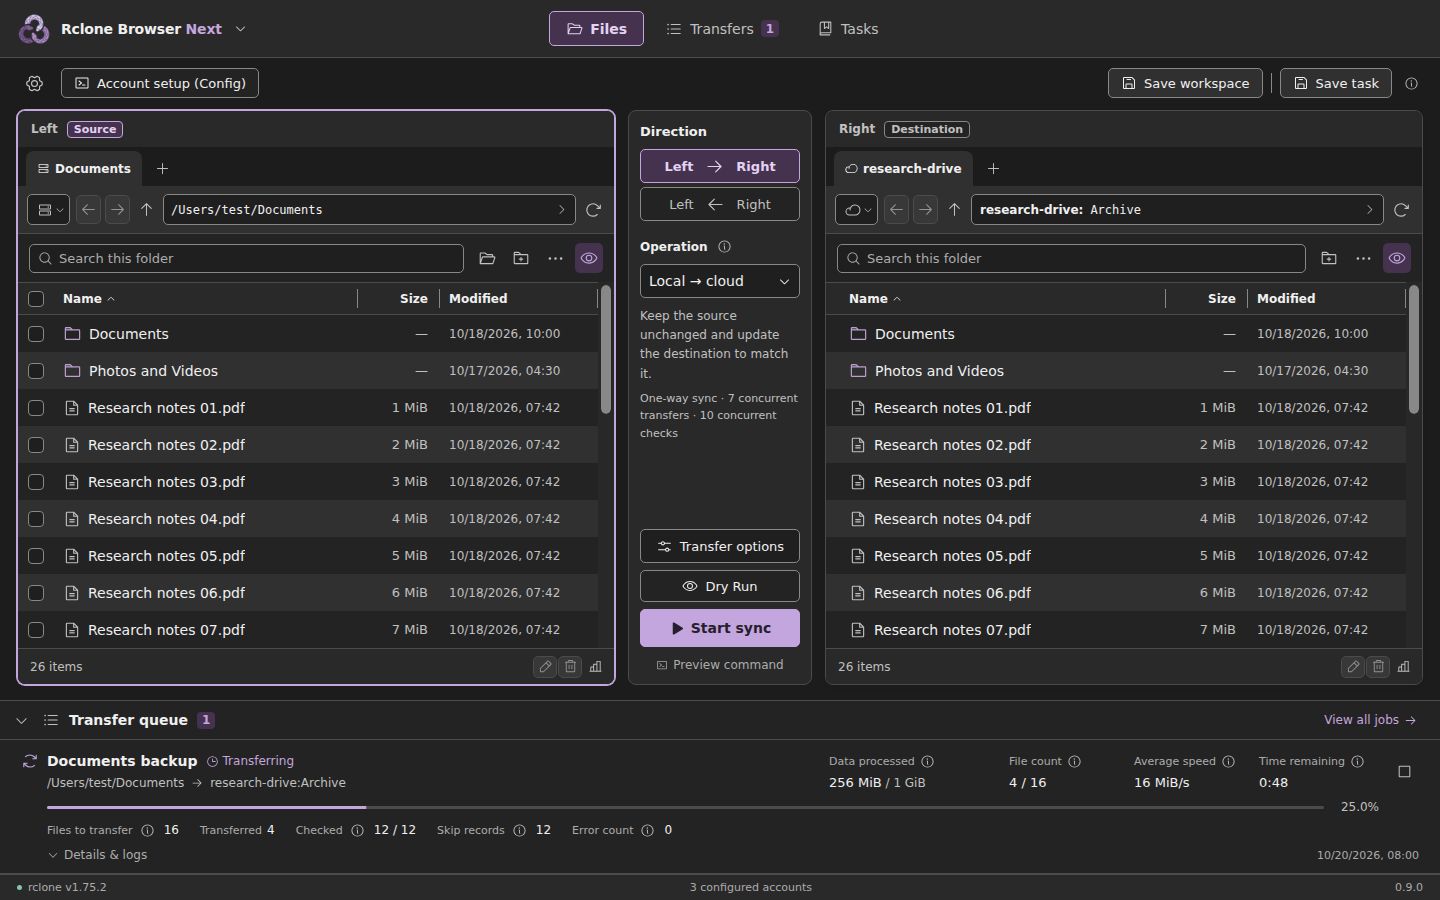
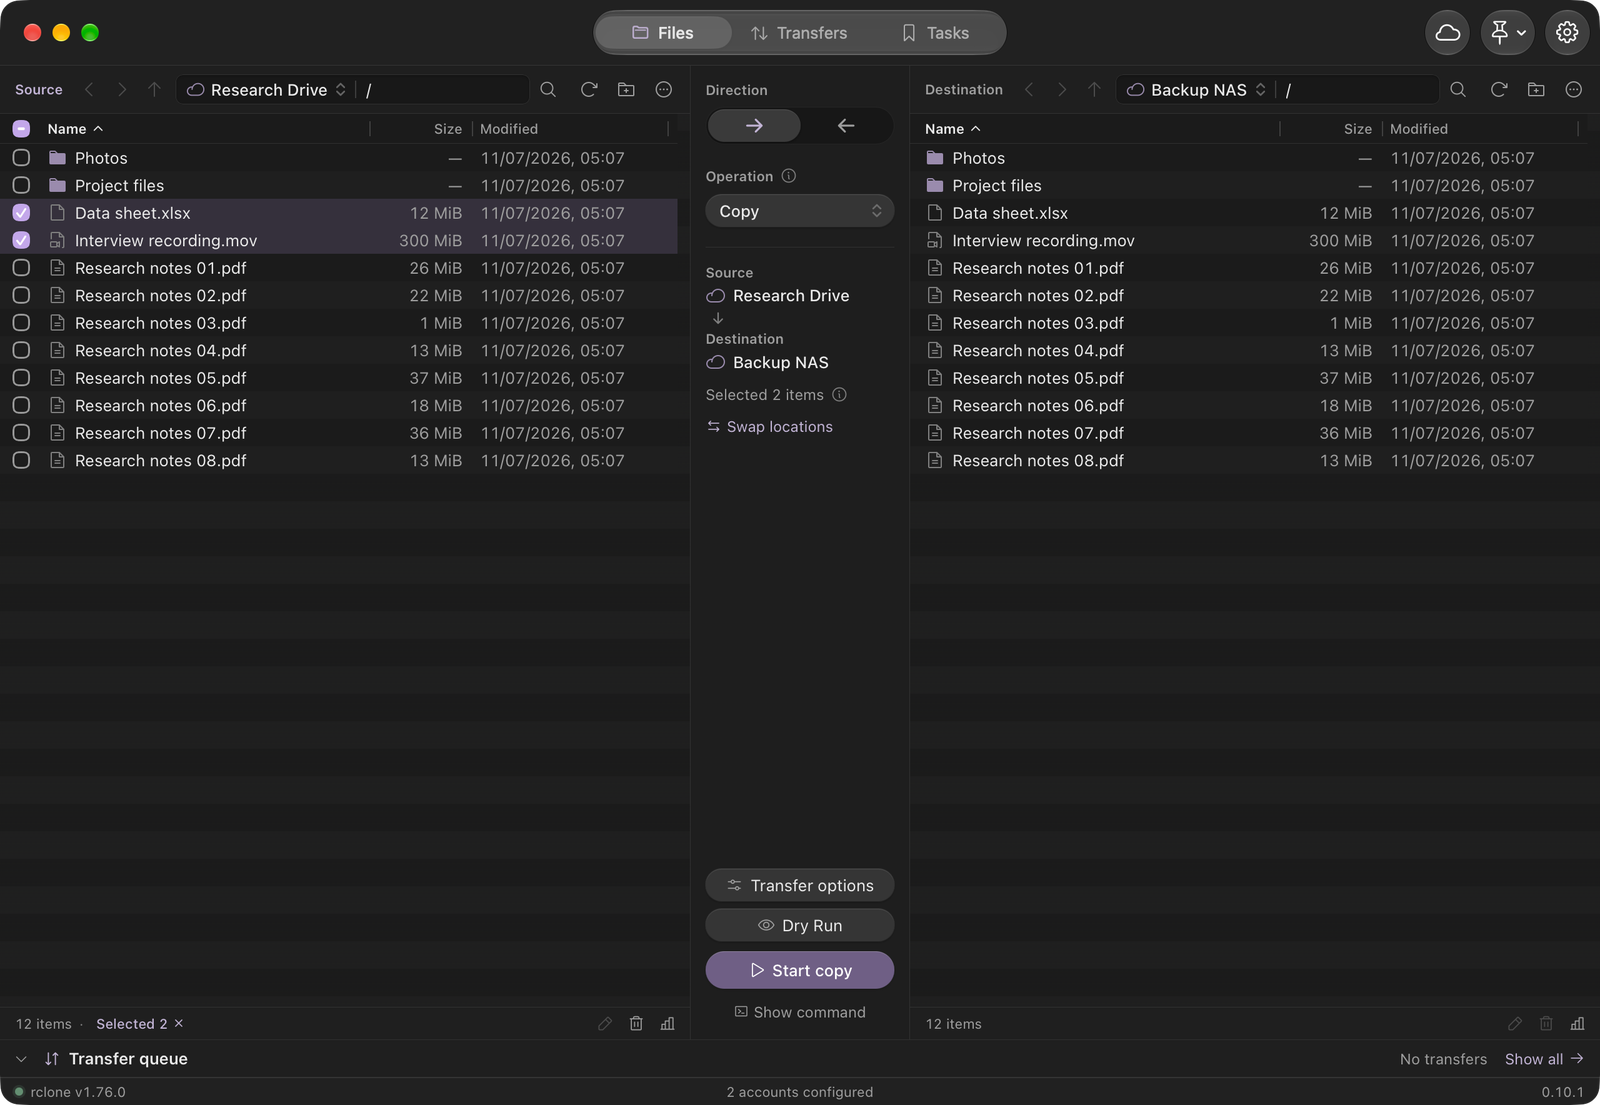
Fix 0.10.1 Windows packaging; actual-size compat zoom; new README screenshots
- CI: upload and verify the 0.10.1 Windows installer (the paths still named
  0.9.6, so the build artifact was empty and every upgrade check failed), and
  add the published 0.9.6 installer as an upgrade baseline.
- Windows probe clicks Up inside the grouped history buttons.
- Windows and Linux use 100% = actual size, like macOS since 0.10.0; the web
  helper used by tests follows the same formula.
- README: screenshots of the real 0.10.1 app (test accounts, sample files);
  the 0.9.6-and-earlier interface is described further down with its own
  screenshot and a link to the 0.9.6 release.
- Release notes summarise 0.10.0, which was not published separately.

diff --git a/WebSource/tests/revision06.spec.ts b/WebSource/tests/revision06.spec.ts
@@ -96,7 +96,7 @@ test('scale keyboard selection and rapid edits survive save rejection without ap
   await expect(dialog.getByRole('alert')).toContainText('Settings rejected');await expect(dialog.locator('.interface-scale-picker input[value="110"]')).toBeChecked();
   await page.evaluate(()=>{const w=window as any;w.__fixture.delays.saveSettings=[120,2];});
   await dialog.locator('.interface-scale-picker').evaluate(group=>{(group.querySelector('input[value="80"]') as HTMLInputElement).click();(group.querySelector('input[value="100"]') as HTMLInputElement).click();});
-  await expect.poll(async()=>(await saved(page)).interfaceScale).toBe(100);await expect.poll(()=>page.viewportSize()).toEqual({width:1177,height:755});await expect(dialog.locator('.interface-scale-picker input[value="100"]')).toBeChecked();
+  await expect.poll(async()=>(await saved(page)).interfaceScale).toBe(100);await expect.poll(()=>page.viewportSize()).toEqual({width:Math.floor(1060/interfaceScaleZoom(100)),height:Math.floor(680/interfaceScaleZoom(100))});await expect(dialog.locator('.interface-scale-picker input[value="100"]')).toBeChecked();
   expect((await calls(page,'saveSettings')).map(call=>call.args[0])).toEqual([{interfaceScale:110},{interfaceScale:125},{interfaceScale:80},{interfaceScale:100}]);
 });
 

diff --git a/WebSource/tests/revision08.spec.ts b/WebSource/tests/revision08.spec.ts
@@ -226,8 +226,8 @@ for (const legacy of [120, 135] as const) test(`migrated ${legacy} percent stays
   await page.screenshot({path: info.outputPath(`scale-legacy-${legacy}.png`), animations: 'disabled'});
   await group.locator('input[value="100"]').locator('..').click();
   await expect(radios).toHaveCount(5); await expect(group.locator('input[value="100"]')).toBeChecked();
-  await expect.poll(() => page.viewportSize()).toEqual({width: 1177, height: 755});
+  await expect.poll(() => page.viewportSize()).toEqual({width: Math.floor(1060 / interfaceScaleZoom(100)), height: Math.floor(680 / interfaceScaleZoom(100))});
   expect(await page.evaluate(() => (window as any).__fixture.bootstrap.settings.interfaceScale)).toBe(100);
   await group.locator('input[value="110"]').locator('..').click();
-  await expect.poll(() => page.viewportSize()).toEqual({width: 1060, height: 680});
+  await expect.poll(() => page.viewportSize()).toEqual({width: Math.floor(1060 / interfaceScaleZoom(110)), height: Math.floor(680 / interfaceScaleZoom(110))});
 });

diff --git a/WebSource/renderer/appearance.ts b/WebSource/renderer/appearance.ts
@@ -2,7 +2,8 @@ import type {InterfaceScale, Theme, ThemeAccent, ThemeMode} from '../shared/type
 
 export const INTERFACE_SCALES: readonly InterfaceScale[] = [80, 90, 100, 110, 125];
 
-export const interfaceScaleZoom = (scale: InterfaceScale): number => (scale - 10) / 100;
+/** 100% is actual size: one CSS pixel per point (macOS) or per device-independent pixel (Windows, Linux). */
+export const interfaceScaleZoom = (scale: InterfaceScale): number => scale / 100;
 
 export function interfaceScaleChoices(current: InterfaceScale): readonly InterfaceScale[] {
   return INTERFACE_SCALES.includes(current) ? INTERFACE_SCALES : [...INTERFACE_SCALES, current].sort((a, b) => a - b);

diff --git a/Scripts/windows/verify-installation.py b/Scripts/windows/verify-installation.py
@@ -326,7 +326,7 @@ def reject_lower_revision(candidate, directory, state, evidence):
 def main():
     parser = argparse.ArgumentParser(description=__doc__)
     parser.add_argument("--phase", choices=["fresh", "upgrade"], required=True)
-    parser.add_argument("--baseline", choices=["0.9.0", "0.9.0-r1", "0.9.2", "0.9.3", "0.9.4", "0.9.5"], default="0.9.0-r1")
+    parser.add_argument("--baseline", choices=["0.9.0", "0.9.0-r1", "0.9.2", "0.9.3", "0.9.4", "0.9.5", "0.9.6"], default="0.9.0-r1")
     parser.add_argument("--candidate", type=Path, required=True)
     parser.add_argument("--receipt", type=Path, required=True)
     parser.add_argument("--rclone", type=Path, required=True)
@@ -396,7 +396,7 @@ def main():
             settings = {"rclonePath": str(rclone), "rcloneDirectory": str(rclone.parent), "configPath": str(config),
                         "autoCheckUpdates": False, "language": "ja", "theme": "blue-light", "interfaceScale": 125,
                         "initialLocations": {"left": {"remote": None, "path": source.as_posix()}, "right": {"remote": "upgrade-alias", "path": ""}}}
-            if args.baseline in {"0.9.2", "0.9.3", "0.9.4", "0.9.5"}:
+            if args.baseline in {"0.9.2", "0.9.3", "0.9.4", "0.9.5", "0.9.6"}:
                 settings["bounceDockOnCompletion"] = False
             transfer = {"source": {"remote": None, "path": source.as_posix()}, "destination": {"remote": "upgrade-alias", "path": ""},
                         "mode": "copy", "selection": [{"name": "keep.txt", "isDir": False}], "dryRun": True,

diff --git a/Scripts/windows/verify-candidate.py b/Scripts/windows/verify-candidate.py
@@ -241,7 +241,7 @@ def main():
         report["scope"] = ["Windows part of the unified desktop release, including scoped directory listing cancellation",
                            "Fresh Windows verification runner has no Swift setup; installed child PATH contains system directories only",
                            "Local filesystem and synthetic rclone alias remotes; no real cloud credentials or user data",
-                           "Upgrade uses a pinned published 0.9.0, Windows r1, 0.9.2, 0.9.3, 0.9.4 or 0.9.5 installer and verifies preserved saved state",
+                           "Upgrade uses a pinned published 0.9.0, Windows r1, 0.9.2, 0.9.3, 0.9.4, 0.9.5 or 0.9.6 installer and verifies preserved saved state",
                            "NSIS downgrade check temporarily raises only the owned registry DisplayVersion to the next patch version",
                            "Publication requires successful Web, Mac, Linux and all five Windows upgrade jobs from this same source commit"]
         report["passed"] = True

diff --git a/Scripts/windows/probe-ui.py b/Scripts/windows/probe-ui.py
@@ -596,7 +596,7 @@ async def inspect(args, report: dict) -> None:
                 await pane.locator('.file-name[title="child folder"]').dblclick()
                 await expect(pane.locator('.file-name[title="local-child-marker.txt"]')).to_be_visible(timeout=15000)
                 assert normalized_path(await path_input.input_value()) == normalized_path(str(local_root / "child folder"))
-                await pane.locator(".path-toolbar > .icon-button").nth(2).click()
+                await pane.locator(".nav-buttons .icon-button").nth(2).click()  # Up
                 await expect(pane.locator('.file-name[title="local-root-marker.txt"]')).to_be_visible(timeout=15000)
                 assert normalized_path(await path_input.input_value()) == normalized_path(str(local_root))
                 return {"side": side, "root": str(local_root), "visitedChild": "child folder", "returnedToParent": True}

diff --git a/Scripts/windows/prepare-baseline.py b/Scripts/windows/prepare-baseline.py
@@ -23,6 +23,12 @@ ROOT = Path(__file__).resolve().parents[2]
 REPOSITORY = "jason840709/RcloneBrowserNext"
 # Public release receipts, independently downloaded and verified at release.
 BASELINES = {
+    "0.9.6": {
+        "releaseID": 424695895,
+        "assetID": 679286900,
+        "bytes": 17131393,
[1 lines of base64/hex data omitted]
+    },
     "0.9.5": {
         "releaseID": 422416302,
         "assetID": 670800921,

diff --git a/Compat/desktop/src/main.rs b/Compat/desktop/src/main.rs
@@ -243,7 +243,8 @@ fn open_url(value: &str) -> Result<(), String> {
 
 fn interface_zoom(displayed_scale: u64) -> f64 {
     let scale = if [80, 90, 100, 110, 120, 125, 135].contains(&displayed_scale) { displayed_scale } else { 100 };
-    (scale as f64 - 10.0) / 100.0
+    // 100% is actual size (one CSS pixel per device-independent pixel), as on macOS since 0.10.0.
+    scale as f64 / 100.0
 }
 
 fn appearance_theme(settings: &Value) -> &str {

diff --git a/docs/RELEASE_0.10.1.md b/docs/RELEASE_0.10.1.md
@@ -1,6 +1,14 @@
 # Rclone Browser Next 0.10.1
 
-0.10.0 介面改版後的修正版。傳輸、比對與帳號設定的行為沒有改變。
+0.10.0 沒有單獨發布，這一版同時包含 0.10.0 的改版與之後的修正。傳輸、比對與帳號設定的行為沒有改變。
+
+## 0.10.0 的主要改變
+
+- **傳輸速度更穩定**：速度改用最近約 10 秒的處理量計算，剩餘時間用約 30 秒估算。遇到要等整個檔案完成才回報進度的複製（例如同一個雲端內的複製），速度顯示「等待檔案完成」，不再先掉到 0 再暴增。
+- **Mac 介面重新設計**：原生 macOS 工具列；介面大小 100% 和 Finder 同樣大小；按鈕凸起、輸入框內凹，分得出主次；位置與路徑合成一條網址列；自動、淺色、深色外觀，搭配低飽和的紫、綠、藍強調色；全 App 使用同一套動畫；對話框點暗色區域即可關閉。
+
+完整內容見 [0.10.0 改版說明](https://github.com/jason840709/RcloneBrowserNext/blob/main/docs/RELEASE_0.10.0.md)。
+
 
 ## 改進
 
@@ -12,10 +20,12 @@
 - **設定已儲存的提示**：原本是一條固定在設定視窗頂端、不會消失的提示，還會把內容往下推。改成浮在視窗下方的提示，幾秒後自動收起，也可以按叉叉關閉。工具視窗裡的成功提示也一起改。
 - **分段按鈕重複的底色**：帳號設定的「快速設定／詳細設定」出現兩層底色，是舊版樣式殘留。已移除，現在只有一個會滑動的底塊。
 - **滑鼠移過按鈕時亮起的範圍不對**：一般按鈕「滑過變亮」的規則權重太高，蓋過了強調色圓點、分頁、分段按鈕等元件自己的外觀。已降低它的權重，各元件維持自己的樣子。帳號設定裡的展開項目也改用和其他地方相同的箭頭。
+- **Windows 與 Linux 版的介面大小**：和 Mac 一樣，介面大小 100% 改成實際大小。0.9.6 以前的 100% 其實是 0.9 倍，所以 0.10.1 的畫面會比 0.9.6 大約一成；覺得太大可以在設定裡改成 90%。
 - **儲存按鈕的圖示**：原本的「方框加向下箭頭」是 macOS 的下載圖示，容易誤會。改成圖釘（記住目前的工作區）；選單裡「儲存工作區」標圖釘、「儲存為作業」標書籤，和「作業」頁的圖示一致。
 
 ## 驗證
 
-- 網頁介面自動化測試全部通過，並新增兩項測試，防止上面的捲動與提示問題再出現。
+- 網頁介面自動化測試全部通過，並新增測試，防止捲動、提示與勾選欄的問題再出現。
+- Windows 安裝版加入「從 0.9.6 升級」的驗證。
 - 原生測試（Mac 介面、啟動畫面、圖示、完成通知、導航）通過。
 - 在實際 App 中，於四種介面大小各捲到底三次，沒有一次被拉回。

diff --git a/README.en.md b/README.en.md
@@ -8,9 +8,9 @@
   <img src="docs/images/intro-en.svg" alt="A dual-pane rclone app for Mac. Choose local folders, NAS or cloud storage on either side." width="560">
 </p>
 
-![Rclone Browser Next: dark purple folder panes with direction, operation and Dry Run controls in the middle](docs/images/main-dark-en.png)
+![Rclone Browser Next 0.10.1: dark purple dual-pane window with the native macOS toolbar on top and direction, operation, Dry Run and Start controls in the middle](docs/images/main-dark-en.png)
 
-*Preview rendered by the app's frontend, using example files and paths.*
+*The actual 0.10.1 app, shown with test accounts and sample files.*
 
 <p align="center">
   <a href="https://github.com/jason840709/RcloneBrowserNext/releases/latest">Download</a> ·
@@ -87,6 +87,12 @@ Requires **macOS 13 or later**. Local builds use an existing **Xcode or Apple Co
 
 The build does not install developer tools, Homebrew, Node.js or rclone. Build caches and outputs stay inside the project folder.
 App bundles use an **ad-hoc signature**, without Developer ID signing or Apple notarization. If Gatekeeper blocks a download, follow the [Mac build guide](docs/BUILD_MAC.zh-TW.md).
+
+## Earlier interface (0.9.6 and before)
+
+Versions up to 0.9.6 used an interface designed with ChatGPT, shown below. From 0.10.0 the app follows a native macOS design; transfers, comparison and account setup work the same way. If you prefer the earlier look, download 0.9.6 from its [release page](https://github.com/jason840709/RcloneBrowserNext/releases/tag/v0.9.6).
+
+![The interface up to 0.9.6: dark purple folder panes with direction, operation and Dry Run controls in the middle](docs/images/legacy-0.9.6-main-dark-en.png)
 
 ## Documentation and feedback
 
